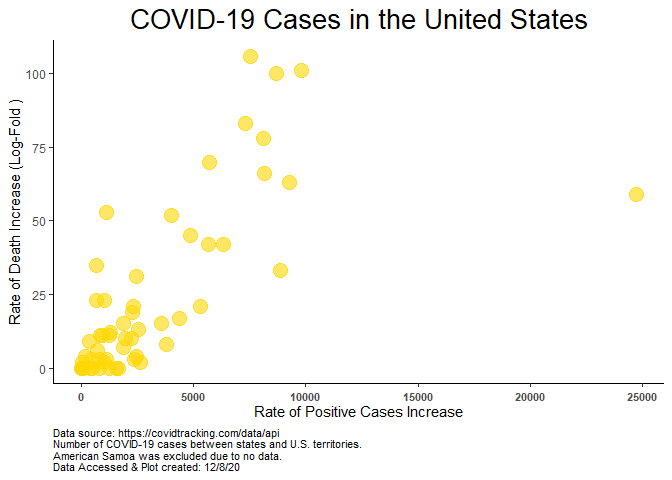
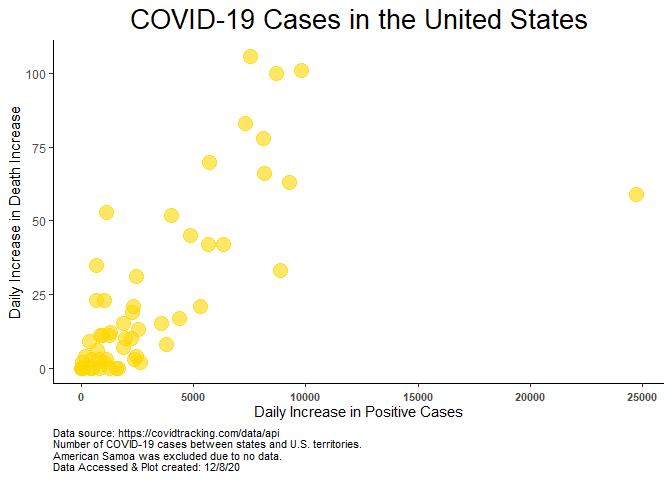
Fix fig axis.

Changed region(s): [[0.0, 0.2188, 0.0312, 0.6875], [0.375, 0.8438, 0.6875, 0.875]]

diff --git a/R/README.md b/R/README.md
@@ -178,8 +178,8 @@ increase.
 ggplot(data %>% 
          filter(state != "AS"), aes(positiveIncrease, deathIncrease)) +
   geom_point(size = 5, color = "gold", alpha = 0.6) +
-  xlab("Rate of Positive Cases Increase") +
-  ylab("Rate of Death Increase (Log-Fold )") +
+  xlab("Daily Increase in Positive Cases") +
+  ylab("Daily Increase in Death Increase") +
   ggtitle("COVID-19 Cases in the United States") +
   labs(caption = "Data source: https://covidtracking.com/data/api\nNumber of COVID-19 cases between states and U.S. territories.\nAmerican Samoa was excluded due to no data.\nData Accessed & Plot created: 12/8/20") +
   theme_classic() +
